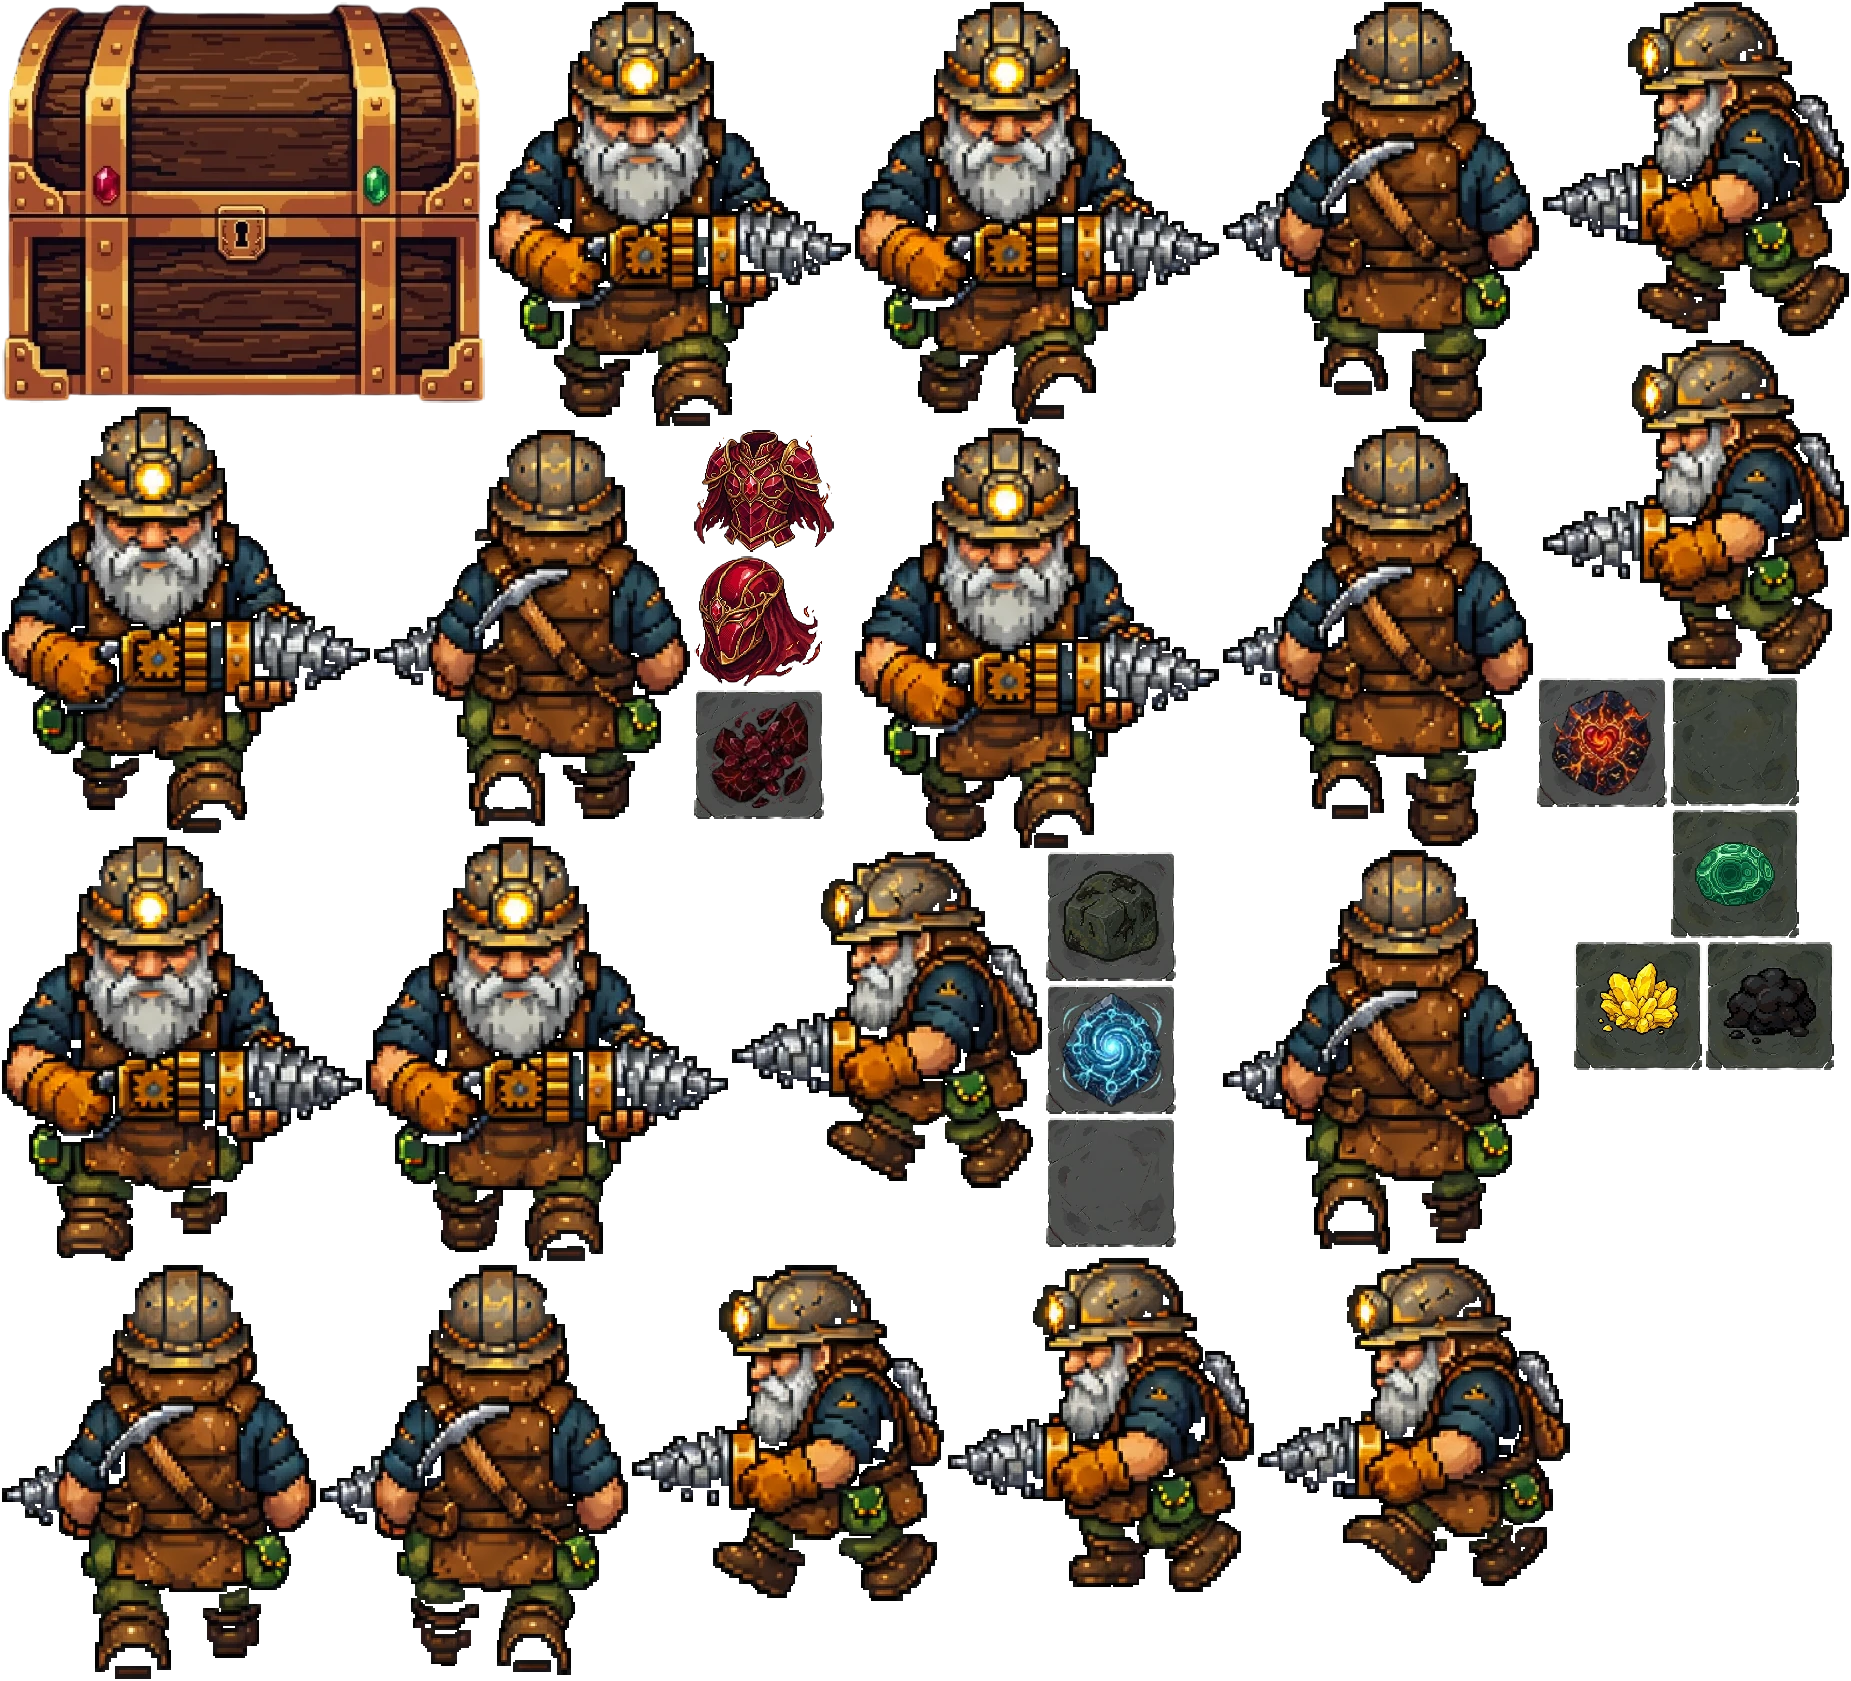
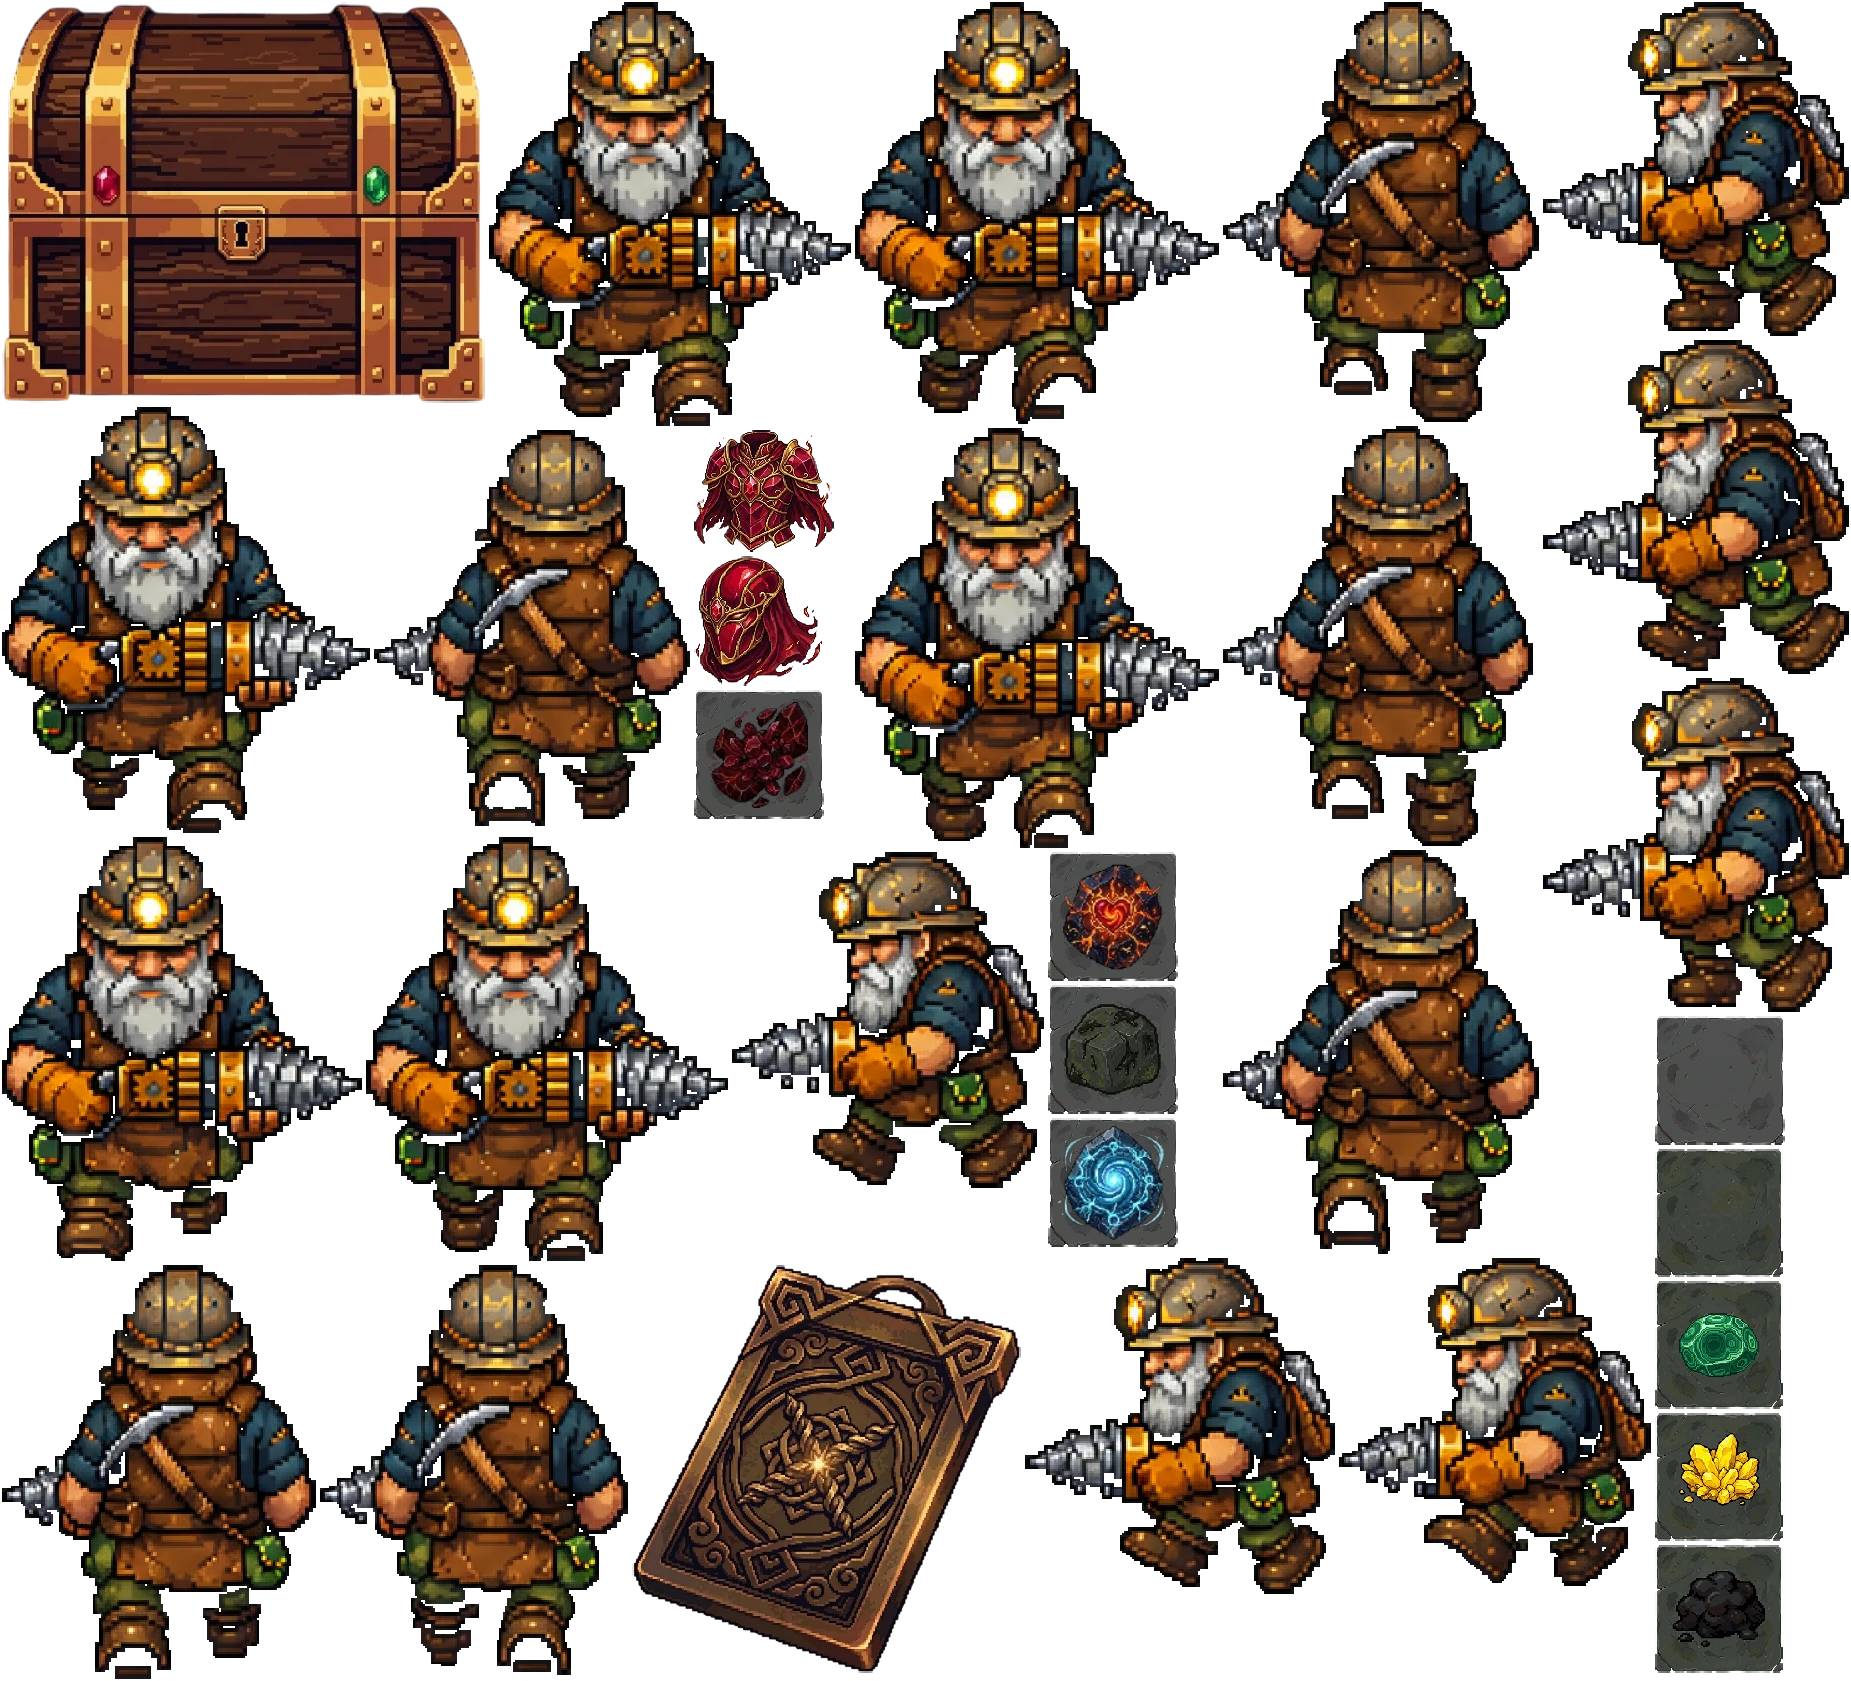
feat: 숙련의 인장 에셋 추가

Changed region(s): [[0.3387, 0.0, 1.0, 1.0]]

diff --git a/src/shared/config/atlasMap.ts b/src/shared/config/atlasMap.ts
@@ -520,6 +520,15 @@ export const atlasMap: Record<AtlasIconName, AtlasMetadata> = {
     "atlasWidth": 1851,
     "atlasHeight": 1681
   },
+  "MasterySealRelic": {
+    "atlasIndex": 3,
+    "x": 633,
+    "y": 1266,
+    "width": 387,
+    "height": 406,
+    "atlasWidth": 1851,
+    "atlasHeight": 1681
+  },
   "PlayerWalkUp03": {
     "atlasIndex": 3,
     "x": 1224,
@@ -540,8 +549,8 @@ export const atlasMap: Record<AtlasIconName, AtlasMetadata> = {
   },
   "PlayerWalkLeft01": {
     "atlasIndex": 3,
-    "x": 633,
-    "y": 1266,
+    "x": 733,
+    "y": 853,
     "width": 310,
     "height": 334,
     "atlasWidth": 1851,
@@ -549,23 +558,14 @@ export const atlasMap: Record<AtlasIconName, AtlasMetadata> = {
   },
   "PlayerWalkLeft02": {
     "atlasIndex": 3,
-    "x": 733,
-    "y": 853,
+    "x": 1026,
+    "y": 1259,
     "width": 308,
     "height": 334,
     "atlasWidth": 1851,
     "atlasHeight": 1681
   },
   "PlayerWalkLeft03": {
-    "atlasIndex": 3,
-    "x": 949,
-    "y": 1259,
-    "width": 304,
-    "height": 332,
-    "atlasWidth": 1851,
-    "atlasHeight": 1681
-  },
-  "PlayerWalkLeft04": {
     "atlasIndex": 3,
     "x": 1544,
     "y": 3,
@@ -574,7 +574,7 @@ export const atlasMap: Record<AtlasIconName, AtlasMetadata> = {
     "atlasWidth": 1851,
     "atlasHeight": 1681
   },
-  "PlayerWalkLeft06": {
+  "PlayerWalkLeft04": {
     "atlasIndex": 3,
     "x": 1544,
     "y": 341,
@@ -583,9 +583,18 @@ export const atlasMap: Record<AtlasIconName, AtlasMetadata> = {
     "atlasWidth": 1851,
     "atlasHeight": 1681
   },
+  "PlayerWalkLeft06": {
+    "atlasIndex": 3,
+    "x": 1544,
+    "y": 679,
+    "width": 304,
+    "height": 332,
+    "atlasWidth": 1851,
+    "atlasHeight": 1681
+  },
   "PlayerWalkLeft05": {
     "atlasIndex": 3,
-    "x": 1259,
+    "x": 1340,
     "y": 1259,
     "width": 310,
     "height": 326,
@@ -621,8 +630,8 @@ export const atlasMap: Record<AtlasIconName, AtlasMetadata> = {
   },
   "FervorStoneTile": {
     "atlasIndex": 3,
-    "x": 1538,
-    "y": 679,
+    "x": 1049,
+    "y": 853,
     "width": 128,
     "height": 127,
     "atlasWidth": 1851,
@@ -630,8 +639,8 @@ export const atlasMap: Record<AtlasIconName, AtlasMetadata> = {
   },
   "FilthStoneTile": {
     "atlasIndex": 3,
-    "x": 1047,
-    "y": 853,
+    "x": 1049,
+    "y": 986,
     "width": 128,
     "height": 127,
     "atlasWidth": 1851,
@@ -639,8 +648,8 @@ export const atlasMap: Record<AtlasIconName, AtlasMetadata> = {
   },
   "GaleStoneTile": {
     "atlasIndex": 3,
-    "x": 1047,
-    "y": 986,
+    "x": 1049,
+    "y": 1119,
     "width": 128,
     "height": 127,
     "atlasWidth": 1851,
@@ -648,8 +657,8 @@ export const atlasMap: Record<AtlasIconName, AtlasMetadata> = {
   },
   "StoneTile": {
     "atlasIndex": 3,
-    "x": 1047,
-    "y": 1119,
+    "x": 1656,
+    "y": 1017,
     "width": 128,
     "height": 127,
     "atlasWidth": 1851,
@@ -657,8 +666,8 @@ export const atlasMap: Record<AtlasIconName, AtlasMetadata> = {
   },
   "C3Tile": {
     "atlasIndex": 3,
-    "x": 1672,
-    "y": 679,
+    "x": 1656,
+    "y": 1150,
     "width": 126,
     "height": 126,
     "atlasWidth": 1851,
@@ -666,8 +675,8 @@ export const atlasMap: Record<AtlasIconName, AtlasMetadata> = {
   },
   "MoldStoneTile": {
     "atlasIndex": 3,
-    "x": 1672,
-    "y": 811,
+    "x": 1656,
+    "y": 1282,
     "width": 126,
     "height": 126,
     "atlasWidth": 1851,
@@ -675,8 +684,8 @@ export const atlasMap: Record<AtlasIconName, AtlasMetadata> = {
   },
   "RotStoneTile": {
     "atlasIndex": 3,
-    "x": 1575,
-    "y": 943,
+    "x": 1656,
+    "y": 1414,
     "width": 126,
     "height": 126,
     "atlasWidth": 1851,
@@ -684,8 +693,8 @@ export const atlasMap: Record<AtlasIconName, AtlasMetadata> = {
   },
   "SludgeStoneTile": {
     "atlasIndex": 3,
-    "x": 1707,
-    "y": 943,
+    "x": 1656,
+    "y": 1546,
     "width": 126,
     "height": 126,
     "atlasWidth": 1851,

diff --git a/src/shared/config/effects/items.ts b/src/shared/config/effects/items.ts
@@ -7,7 +7,7 @@ export const craftedEffects: Record<string, EffectDefinition> = {
     nameKo: '숙련의 인장',
     type: 'stackable',
     maxStack: 10,
-    image: 'LustEssence',
+    image: 'MasterySealRelic',
     description: 'Increases mastery EXP gained from mining.',
     descriptionKo: '채굴 시 획득하는 숙련도를 고정 수치만큼 증가시킵니다.',
     bonus: { stat: 'masteryExpFlat', value: 5 },

diff --git a/src/shared/config/atlasFiles.ts b/src/shared/config/atlasFiles.ts
@@ -36,6 +36,7 @@ export const ATLAS_FILE_MAPPING = {
   LuckRune: 'LuckRune.png',
   LustEssence: 'LustEssence.png',
   LustfulWhisperer: 'LustfulWhisperer.png',
+  MasterySealRelic: 'MasterySealRelic.png',
   Mechanic: 'Mechanic.png',
   Merchant: 'Merchant.png',
   MiningSpeedRune: 'MiningSpeedRune.png',
